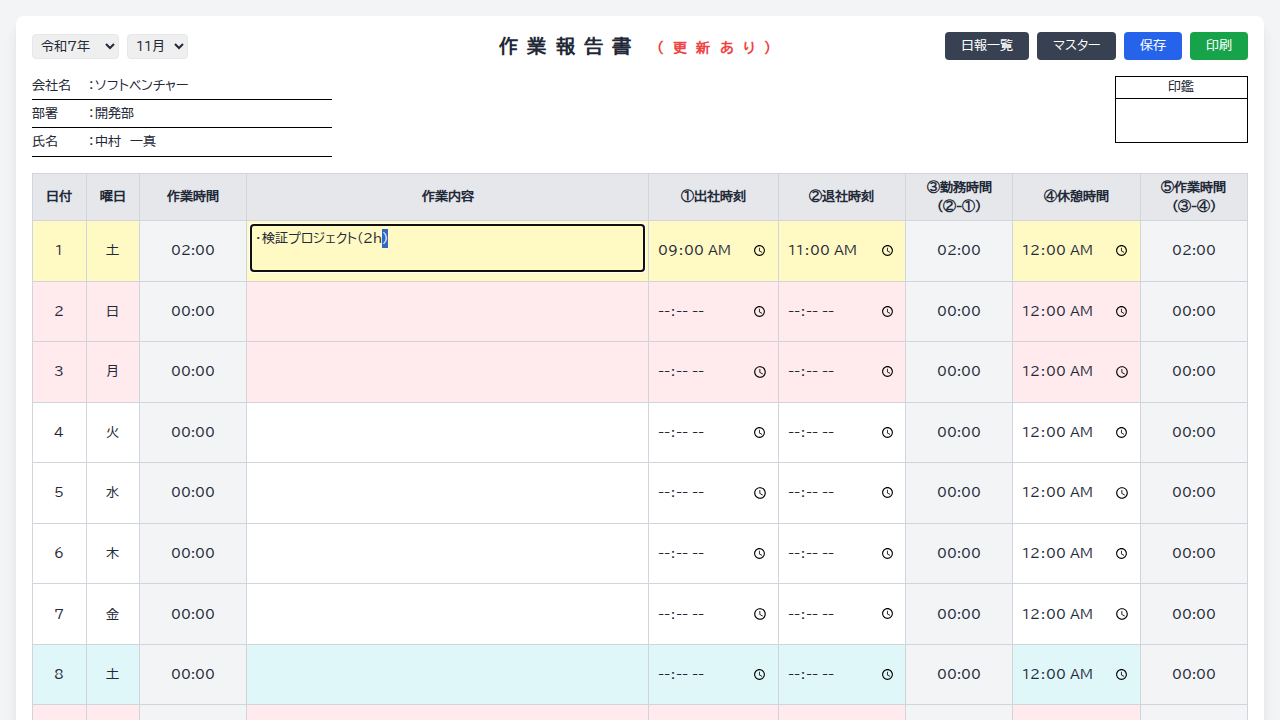
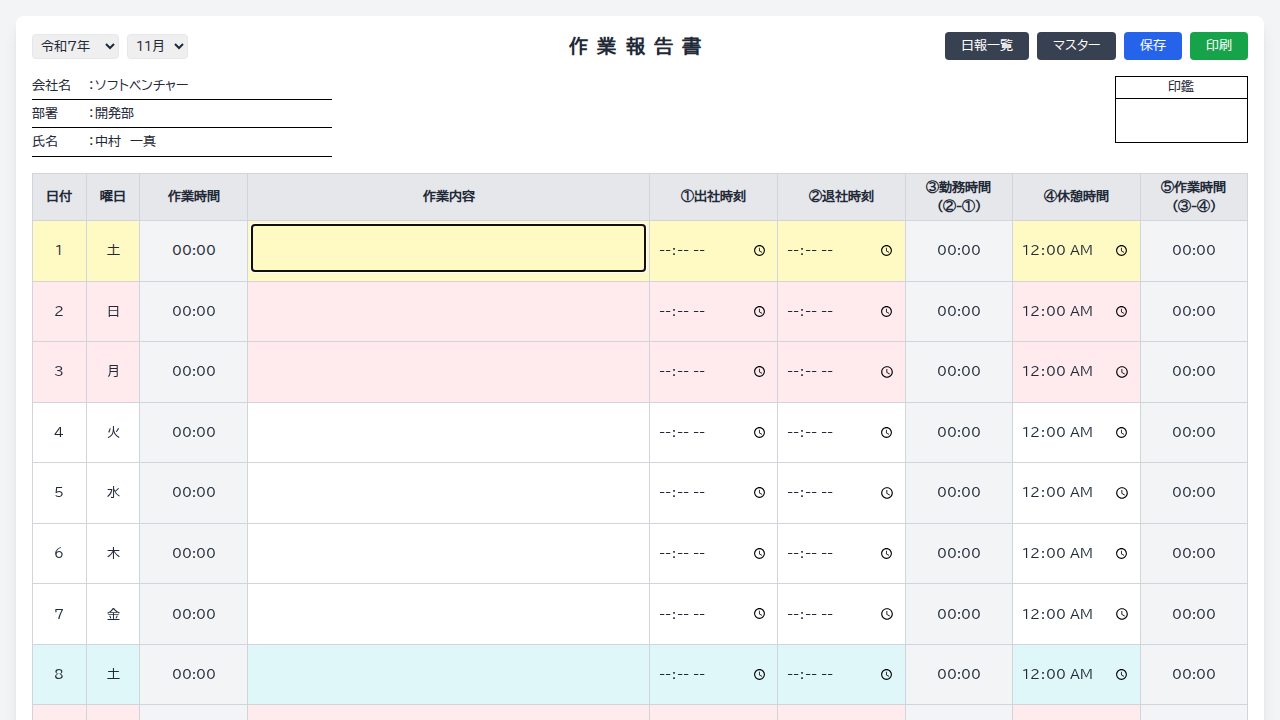
日報入力の作業内容自動生成ロジックとUI文言を削除

diff --git a/front_end/src/components/DailyReportModal.jsx b/front_end/src/components/DailyReportModal.jsx
@@ -383,7 +383,7 @@ ${reportData.thoughts}`;
 
           {/* テキストエリア */}
           <div className="space-y-4 p-4 border rounded mt-4 w-full">
-            <TextAreaField label="作業内容 (明細から自動生成されますが、手動編集も可能です)" value={reportData.work_summary} onChange={(e) => handleDataChange('work_summary', e.target.value)} rows={4} />
+            <TextAreaField label="作業内容" value={reportData.work_summary} onChange={(e) => handleDataChange('work_summary', e.target.value)} rows={4} />
             <TextAreaField label="問題点" value={reportData.problems} onChange={(e) => handleDataChange('problems', e.target.value)} rows={2} />
             <TextAreaField label="課題" value={reportData.challenges} onChange={(e) => handleDataChange('challenges', e.target.value)} rows={2} />
             <TextAreaField label="明日する内容" value={reportData.tomorrow_tasks} onChange={(e) => handleDataChange('tomorrow_tasks', e.target.value)} rows={2} />

diff --git a/front_end/dist/index.html b/front_end/dist/index.html
@@ -1,15 +1,14 @@
 <!doctype html>
 <html lang="ja">
-  <head>
-    <meta charset="UTF-8" />
-    <link rel="icon" type="image/svg+xml" href="/vite.svg" />
-    <meta name="viewport" content="width=device-width, initial-scale=1.0" />
-    <title>勤務管理システム</title>
-    <script type="module" crossorigin src="/assets/index-usp7N2SV.js"></script>
-    <link rel="stylesheet" crossorigin href="/assets/index-DyHrc4Y1.css">
-  </head>
-  <body>
-    <div id="root"></div>
-  </body>
+  <head>
+    <meta charset="UTF-8" />
+    <link rel="icon" type="image/svg+xml" href="/vite.svg" />
+    <meta name="viewport" content="width=device-width, initial-scale=1.0" />
+    <title>勤務管理システム</title>
+    <script type="module" crossorigin src="/assets/index-BPuYmCh0.js"></script>
+    <link rel="stylesheet" crossorigin href="/assets/index-BkWUQu0A.css">
+  </head>
+  <body>
+    <div id="root"></div>
+  </body>
 </html>
-

diff --git a/back_end/app.py b/back_end/app.py
@@ -702,28 +702,8 @@ def save_work_records():
                         """, (record_id, client_id, project_id, work_time))
 
                 # 4. work_content の自動生成と更新
-                # 保存した明細を読み込み直して文字列生成
-                details_cursor = db.execute("""
-                    SELECT p.project_name, d.work_time
-                    FROM work_record_details d
-                    JOIN projects p ON d.project_id = p.project_id
-                    WHERE d.record_id = ?
-                    ORDER BY d.detail_id
-                """, (record_id,))
-                saved_details = details_cursor.fetchall()
-
-                if saved_details:
-                    content_lines = []
-                    for sd in saved_details:
-                        # 分を時間に変換 (例: 4h, 4.5h)
-                        hours = sd['work_time'] / 60
-                        # 整数の場合は .0 を消す
-                        hours_str = f"{int(hours)}" if hours.is_integer() else f"{hours}"
-                        content_lines.append(f"・{sd['project_name']}({hours_str}h)")
-                    new_work_content = "\n".join(content_lines)
-
-                    # work_recordsを更新
-                    db.execute("UPDATE work_records SET work_content = ? WHERE record_id = ?", (new_work_content, record_id))
+                # 手動入力された内容を優先するため、自動生成ロジックは削除しました。
+                pass
 
         db.commit() # 全ての処理が成功したらコミット
         app.logger.info(f"作業記録保存成功: 社員ID={employee_id}, 年月={year}-{month}")
@@ -1192,40 +1172,10 @@ def save_daily_report():
                         VALUES (?, ?, ?, ?)
                     """, (record_id, client_id, project_id, work_time))
 
-            # 4. work_content の自動生成と更新 (明細がある場合、work_summaryは上書きされる)
-            # 保存した明細を読み込み直して文字列生成
-            cursor.execute("""
-                SELECT p.project_name, d.work_time
-                FROM work_record_details d
-                JOIN projects p ON d.project_id = p.project_id
-                WHERE d.record_id = ?
-                ORDER BY d.detail_id
-            """, (record_id,))
-            saved_details = cursor.fetchall()
-
-            if saved_details:
-                content_lines = []
-                for sd in saved_details:
-                    # 分を時間に変換
-                    hours = sd['work_time'] / 60
-                    hours_str = f"{int(hours)}" if hours.is_integer() else f"{hours}"
-                    content_lines.append(f"・{sd['project_name']}({hours_str}h)")
-                new_work_content = "\n".join(content_lines)
-
-                # work_recordsを更新 (daily_reportsのwork_summaryも更新すべきか？)
-                # 要件では「従来のwork_contentは...月次画面上では簡易表示に留めます」
-                # work_recordsは月次画面用なので更新する。
-                # daily_reportsは日報そのものなので、ユーザーが入力したテキストを残すか、同期するか。
-                # ここでは、ユーザーがテキストエリアに入力した内容(data['work_summary'])を優先し、
-                # 明細から生成されたテキストは work_records にのみ反映する形にするか、
-                # あるいは daily_reports にも反映するか。
-                # 日報モーダルでは「明細」と「作業内容テキストエリア」が共存するUIになるか、
-                # テキストエリアが明細から自動生成されるReadonlyになるか。
-                # 要件「従来のwork_content（作業内容テキスト）は...複数明細導入後は、各明細の組み合わせが作業内容となるため...」
-                # とあるので、自動生成が正。したがってdaily_reports側も更新しておくのが親切。
-
-                cursor.execute("UPDATE work_records SET work_content = ? WHERE record_id = ?", (new_work_content, record_id))
-                cursor.execute("UPDATE daily_reports SET work_summary = ? WHERE report_id = (SELECT report_id FROM daily_reports WHERE employee_id = ? AND date = ?)", (new_work_content, employee_id, date))
+            # 4. work_content の自動生成と更新
+            # 以前はここで明細からwork_contentを自動生成して上書きしていましたが、
+            # 手動入力された内容を優先するため、自動生成ロジックは削除しました。
+            pass
 
 
         db.commit()

diff --git a/verification/verify_frontend.py b/verification/verify_frontend.py
@@ -1,0 +1,63 @@
+
+from playwright.sync_api import sync_playwright, expect
+
+def verify_daily_report_modal():
+    with sync_playwright() as p:
+        # headless=True で実行
+        browser = p.chromium.launch(headless=True)
+        page = browser.new_page()
+
+        # バックエンドがビルド済みフロントエンドを配信しているので 5000 番ポートにアクセス
+        try:
+            page.goto("http://localhost:5000")
+        except Exception as e:
+            print(f"Failed to connect to app: {e}")
+            browser.close()
+            return
+
+        # ページがロードされるのを待つ
+        page.wait_for_timeout(3000)
+
+        try:
+             # テーブルの最初のデータ行（tbodyの最初のtr）の特定セルをクリック
+             # ReportTable.jsxの実装では <tr ... onDoubleClick={() => onRowClick(record)}> となっている
+             # onRowClickはダブルクリックで発火するようだ
+
+             # まずテーブルが表示されているか確認
+             page.wait_for_selector("table", timeout=5000)
+
+             # tbody内の最初の行をダブルクリック
+             page.locator("table tbody tr").first.dblclick()
+
+             # モーダルが表示されるのを待つ
+             page.wait_for_selector(".ReactModal__Content", timeout=5000)
+
+             # スクリーンショット保存 (モーダルが開いた状態)
+             page.screenshot(path="verification/frontend_modal.png")
+             print("Screenshot saved to verification/frontend_modal.png")
+
+             # "作業内容" のラベルを確認
+             # 変更前: "作業内容 (明細から自動生成されますが、手動編集も可能です)"
+             # 変更後: "作業内容"
+
+             # "作業内容" というテキストを含むラベルを探す
+             label = page.locator("label", has_text="作業内容")
+
+             # 完全一致または部分一致で検証
+             # innerTextを取得して検証するのが確実
+             label_text = label.inner_text()
+             print(f"Label text found: '{label_text}'")
+
+             if "作業内容 (明細から自動生成されますが、手動編集も可能です)" not in label_text and "作業内容" in label_text:
+                 print("SUCCESS: Label text is correct.")
+             else:
+                 print("FAILURE: Label text is incorrect.")
+
+        except Exception as e:
+            print(f"Error during interaction: {e}")
+            page.screenshot(path="verification/error.png")
+
+        browser.close()
+
+if __name__ == "__main__":
+    verify_daily_report_modal()
